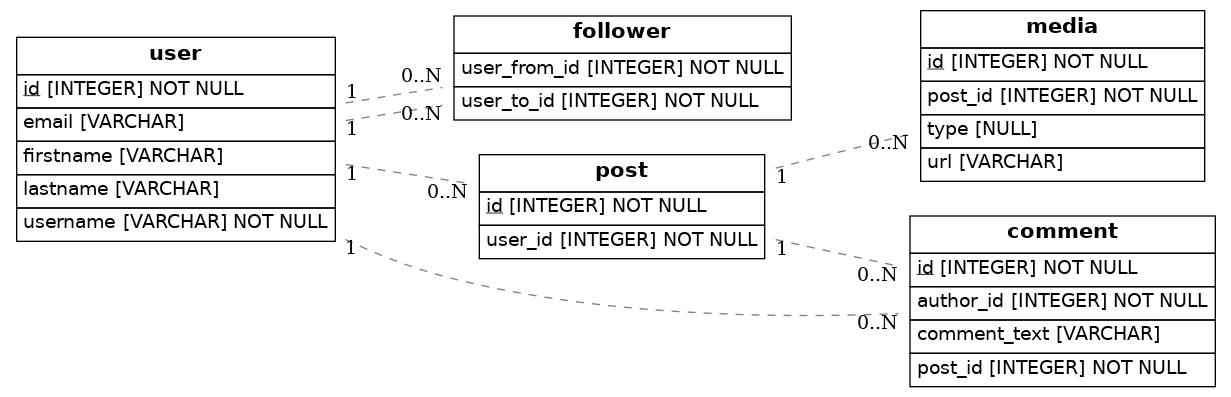
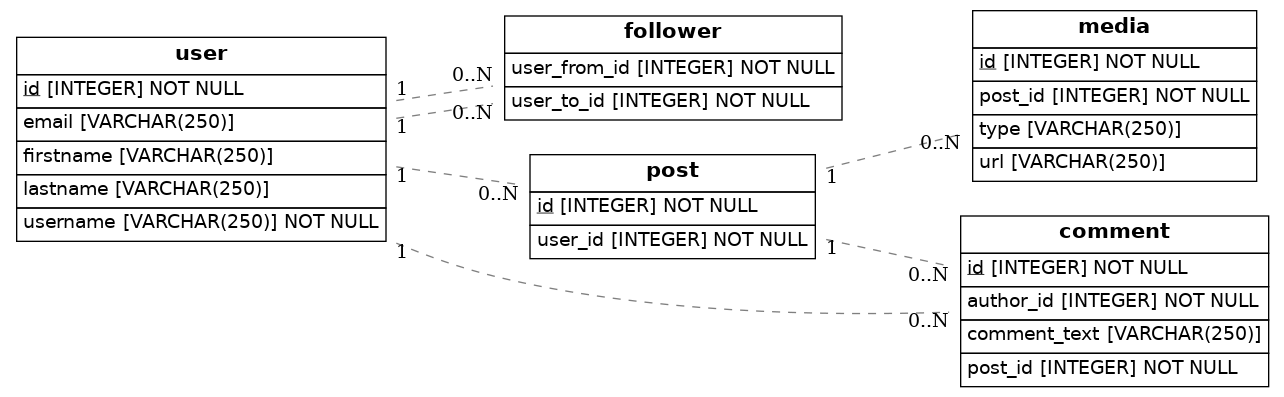
Bugs fixeds

diff --git a/src/models.py b/src/models.py
@@ -16,10 +16,10 @@ followers = Table('follower',
 class User(Base):
     __tablename__ = 'user'
     id = Column(Integer, primary_key = True)
-    username = Column(String, nullable = False)
-    firstname = Column(String)
-    lastname = Column(String)
-    email = Column(String, unique = True)
+    username = Column(String(250), nullable = False)
+    firstname = Column(String(250))
+    lastname = Column(String(250))
+    email = Column(String(250), unique = True)
     followers = relationship('User', secondary=followers, lazy='subquery',
         backref=backref('users', lazy=True))
     
@@ -33,8 +33,8 @@ class Post(Base):
 class Media(Base):
     __tablename__ = 'media'
     id = Column(Integer, primary_key = True)
-    type = Column()
-    url = Column(String)
+    type = Column(String(250))
+    url = Column(String(250))
     post_id = Column(Integer, ForeignKey('post.id'), nullable = False)
     
     post = relationship("Post")
@@ -42,7 +42,7 @@ class Media(Base):
 class Comment(Base):
     __tablename__ = 'comment'
     id = Column(Integer, primary_key = True)
-    comment_text = Column(String)
+    comment_text = Column(String(250))
     author_id = Column(Integer, ForeignKey('user.id'), nullable = False)
     post_id = Column(Integer, ForeignKey('post.id'), nullable = False)
     
